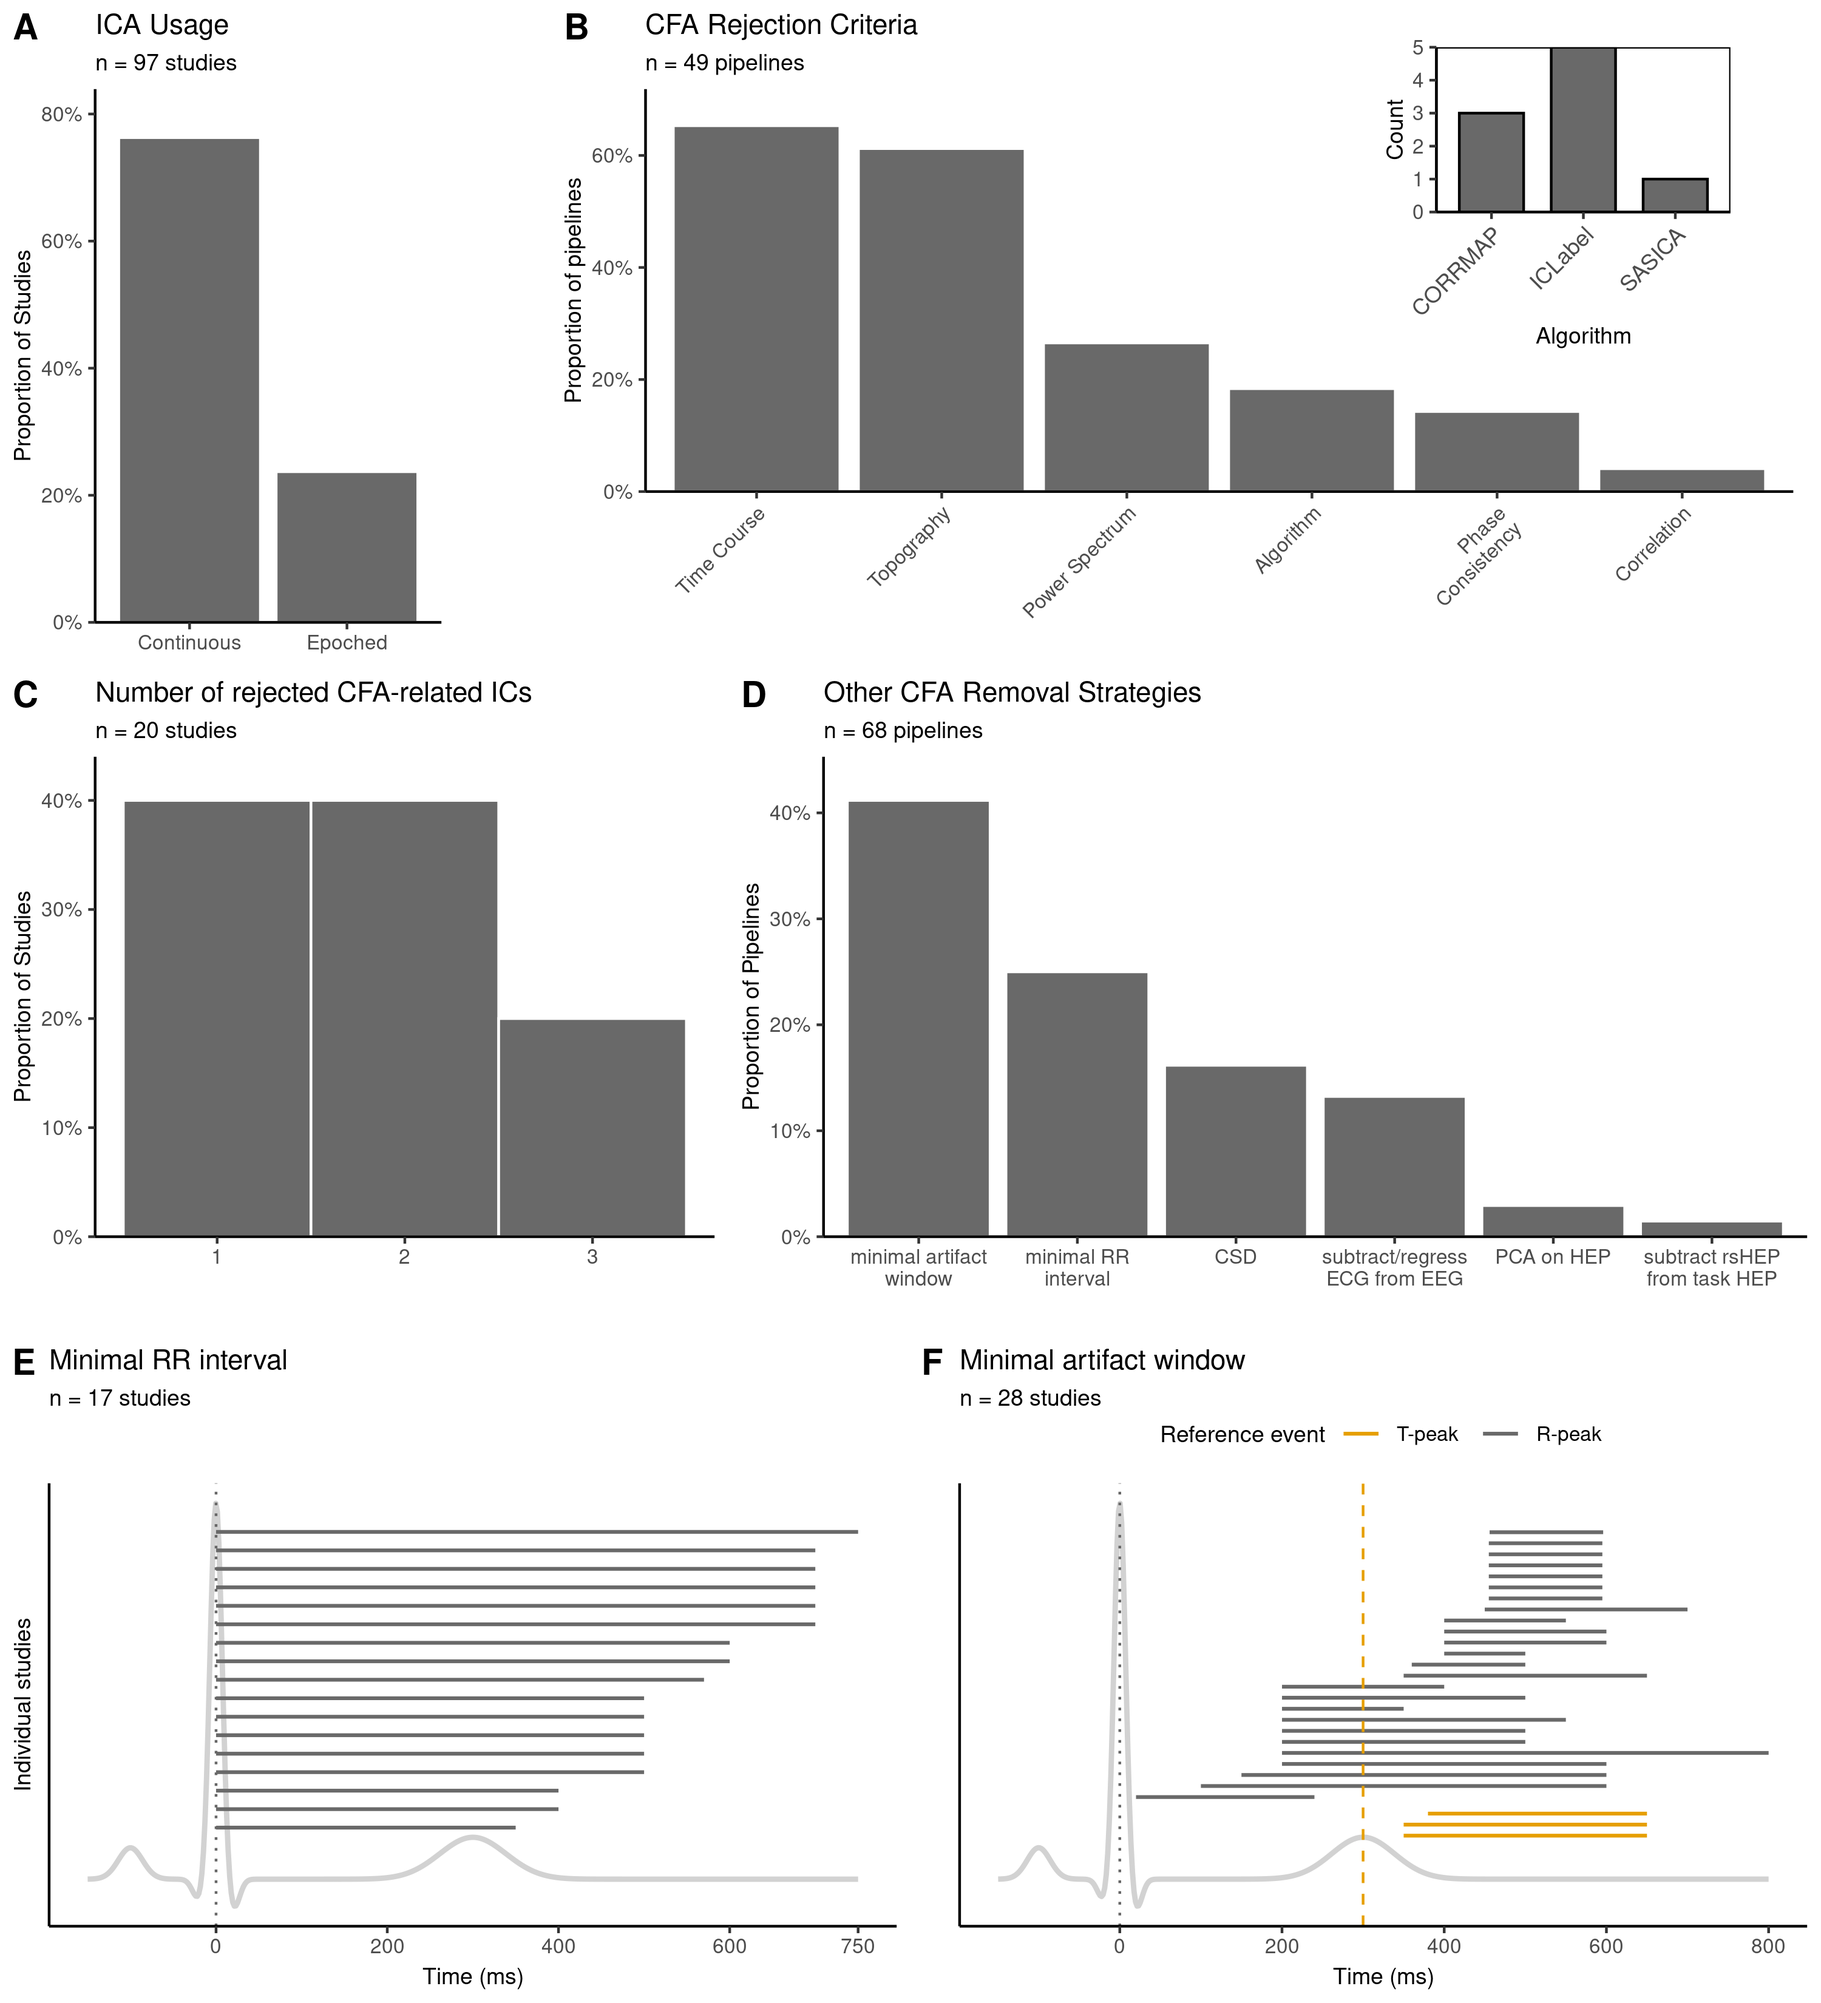
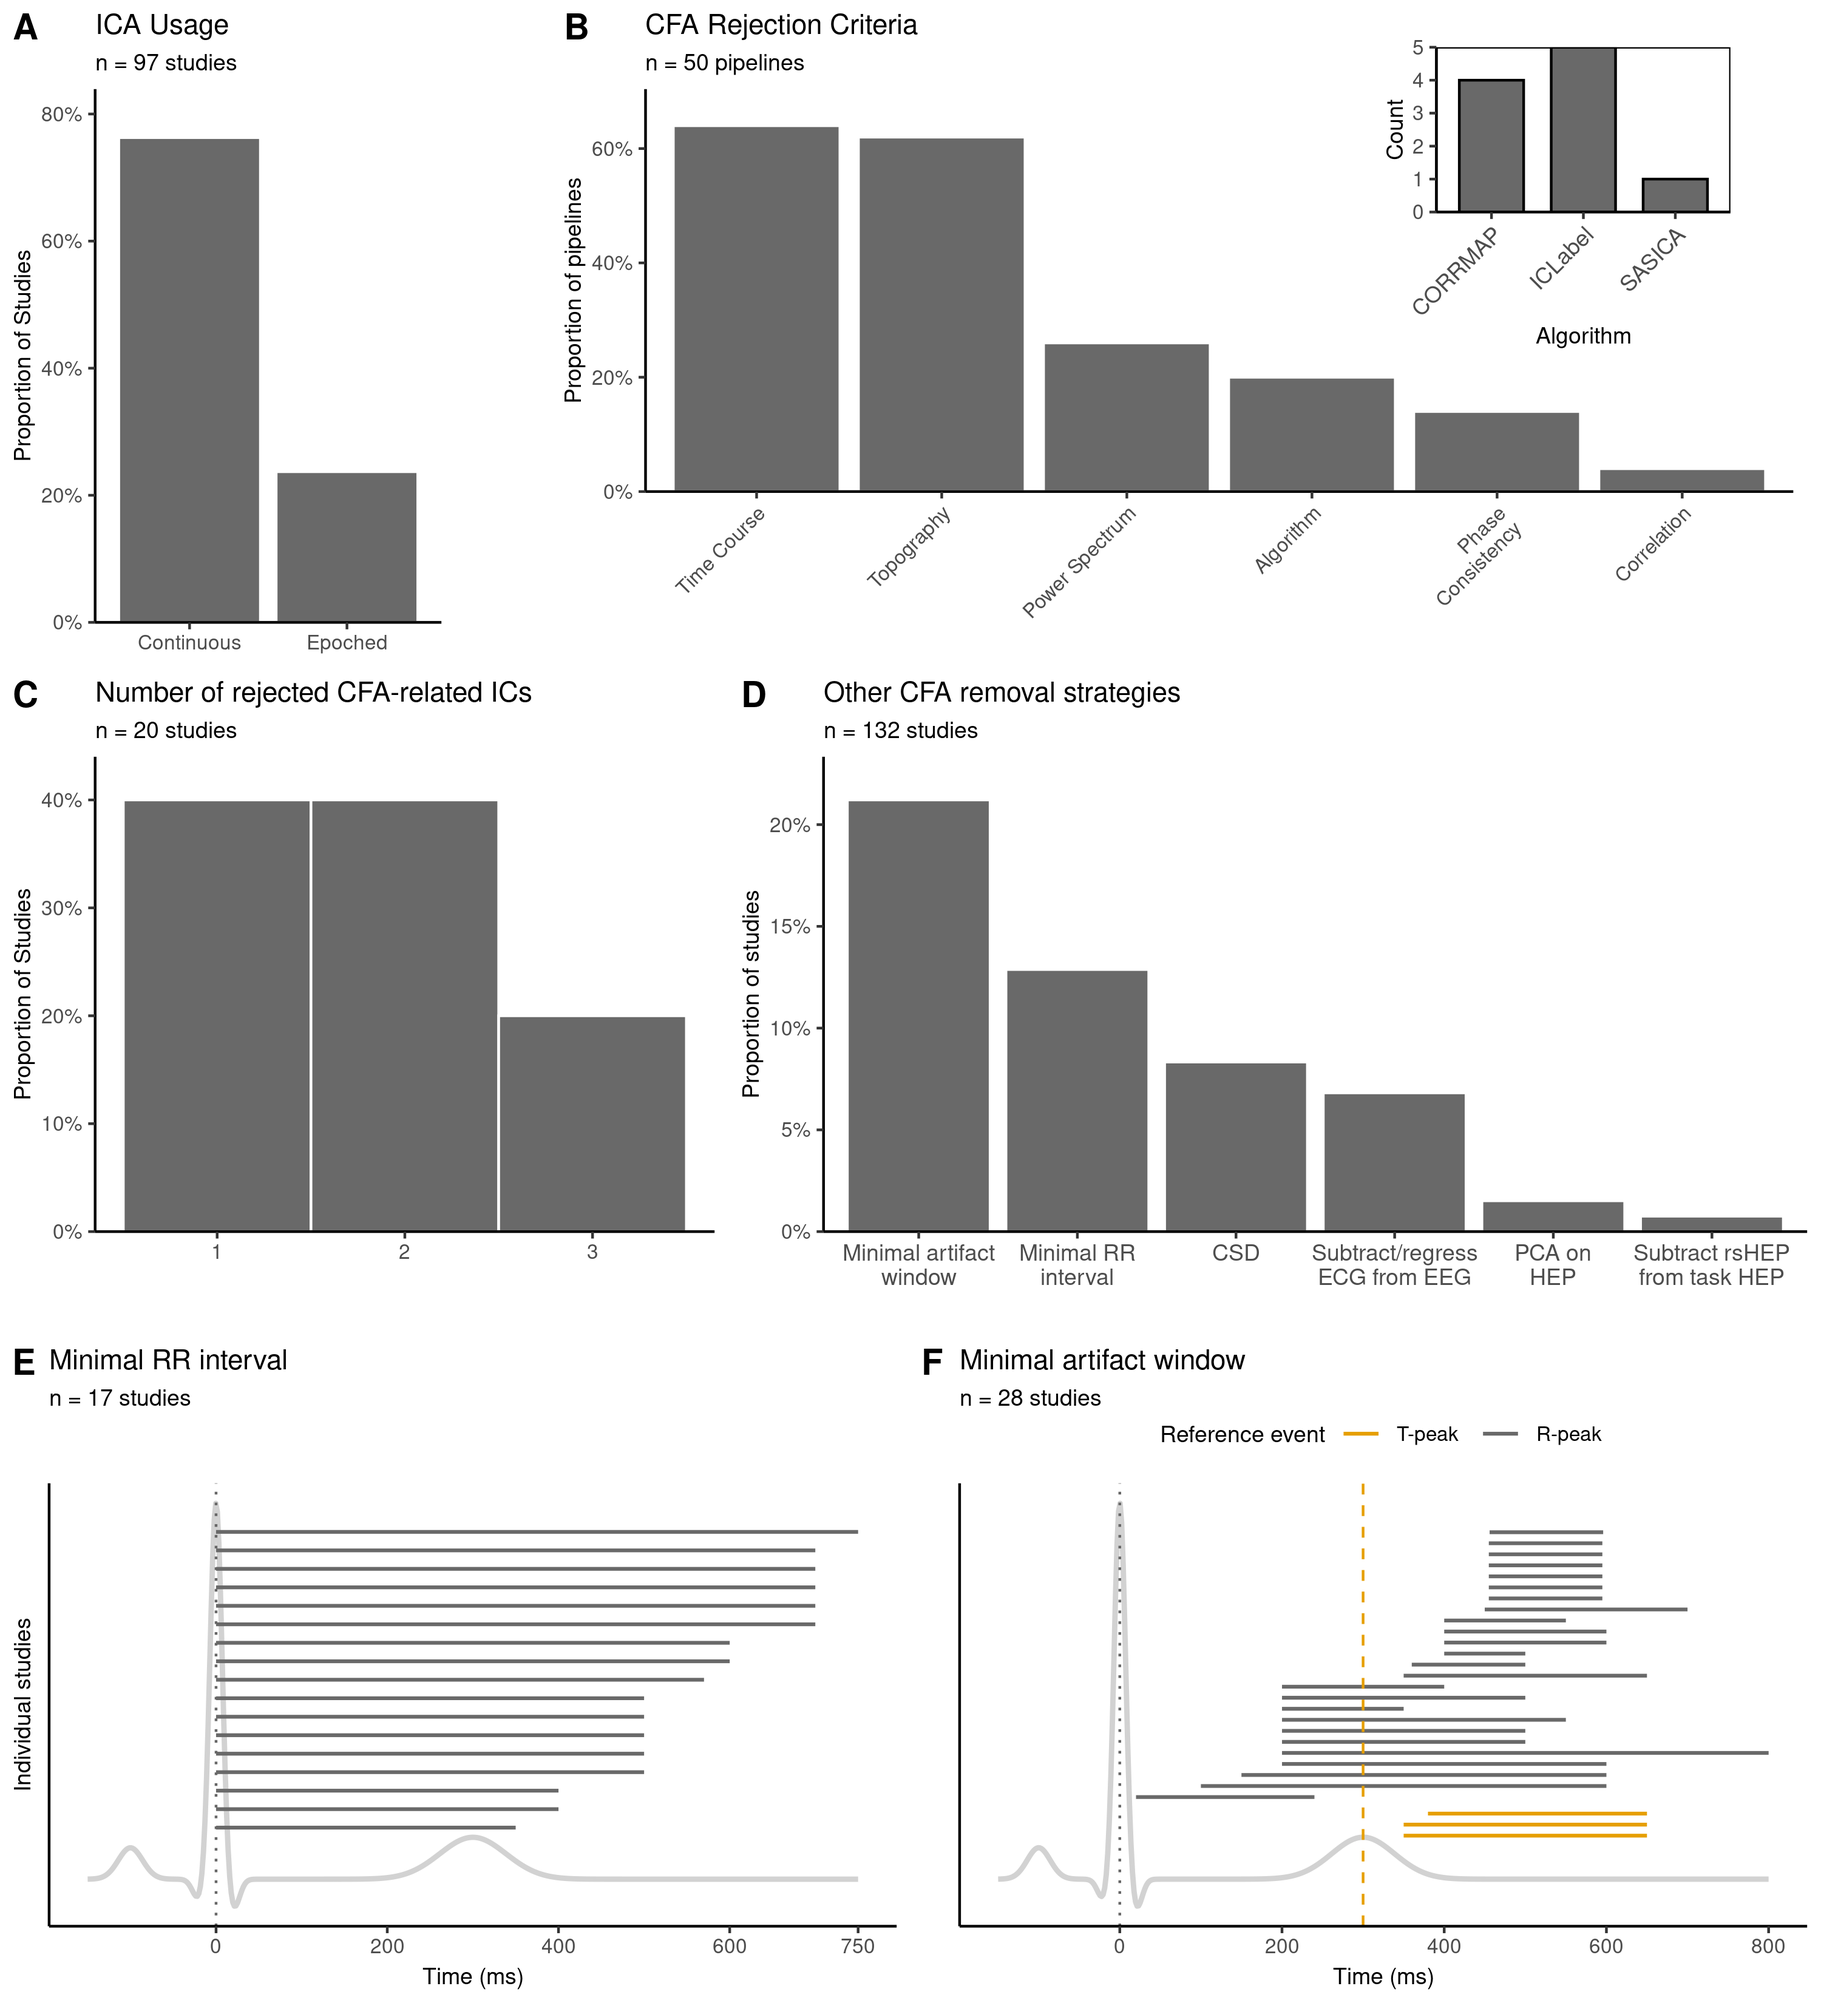
Figure 5, other CFA removal strategy

diff --git a/results/manuscript_statistics.html b/results/manuscript_statistics.html
@@ -265,19 +265,31 @@ time windows, or statistical approaches).</li>
 </div>
 <div id="dealing-with-cardiac-artifacts" class="section level2">
 <h2>3.5. Dealing with cardiac artifacts</h2>
-<p>Studies using any strategy for dealing with CFA:
-<strong>TODO</strong></p>
-<p>ICA used to remove CFA: <strong>TODO</strong></p>
+<p>Studies using any strategy for dealing with CFA: <strong>92%</strong>
+(<strong>121</strong> / <strong>132</strong>) studies</p>
+<p>ICA used to remove CFA: <strong>52%</strong> (<strong>69</strong> /
+<strong>132</strong>) studies</p>
 <div id="ica-applied-to-what-data" class="section level3">
 <h3>ICA applied to what data?</h3>
 <ul>
-<li>Continuous: <strong>76%</strong> (74/97) studies</li>
-<li>Epoched: <strong>24%</strong> (23/97) studies</li>
+<li>Continuous: <strong>76%</strong> (<strong>74</strong> /
+<strong>97</strong>) studies</li>
+<li>Epoched: <strong>24%</strong> (<strong>23</strong> /
+<strong>97</strong>) studies</li>
 </ul>
 </div>
 <div id="cfa-rejection-approach" class="section level3">
 <h3>CFA rejection approach</h3>
-<p>TODO</p>
+<ul>
+<li>Manual: <strong>54%</strong> (<strong>37</strong> /
+<strong>69</strong> studies)</li>
+<li>Automatic: <strong>19%</strong> (<strong>13</strong> /
+<strong>69</strong> studies)</li>
+<li>unknown: <strong>14%</strong> (<strong>10</strong> /
+<strong>69</strong> studies)</li>
+<li>Semi-automatic: <strong>13%</strong> (<strong>9</strong> /
+<strong>69</strong> studies)</li>
+</ul>
 </div>
 <div id="cfa-rejection-criteria" class="section level3">
 <h3>CFA rejection criteria</h3>
@@ -290,39 +302,36 @@ time windows, or statistical approaches).</li>
 <strong>69</strong>) studies</li>
 <li>Range: <strong>1</strong> - <strong>3</strong>, median = 1.7</li>
 </ul>
-<p>ICA for CFA: <strong>69</strong>/<strong>132</strong></p>
 </div>
-<div id="cfa-identification-approaches" class="section level3">
-<h3>CFA Identification Approaches</h3>
+<div id="studies-with-any-cfa-approach" class="section level3">
+<h3>Studies With Any CFA Approach</h3>
 <ul>
-<li>Not reported: <strong>40.2%</strong> of studies using ICA
-(39/97)</li>
+<li>Studies with any CFA approach: <strong>79.5</strong>% (105/132)</li>
 </ul>
-<p>CFA approaches (pipelines): * Manual: <strong>63.8%</strong> (37/58)
-* Automatic: <strong>20.7%</strong> (12/58) * Semi-Automatic:
-<strong>15.5%</strong> (9/58)</p>
 </div>
 <div id="cfa-identification-criteria" class="section level3">
 <h3>CFA Identification Criteria</h3>
-<p>CFA criteria (pipelines): * Time Course: <strong>65.3%</strong>
-(32/49) * Topography: <strong>61.2%</strong> (30/49) * Power Spectrum:
-<strong>26.5%</strong> (13/49) * Correlation: <strong>4.1%</strong>
-(2/49) * Algorithm: <strong>18.4%</strong> (9/49) * Phase Consistency:
-<strong>14.3%</strong> (7/49)</p>
+<p>CFA criteria (pipelines): * Time Course: <strong>64%</strong> (32/50)
+* Topography: <strong>62%</strong> (31/50) * Power Spectrum:
+<strong>26%</strong> (13/50) * Correlation: <strong>4%</strong> (2/50) *
+Algorithm: <strong>20%</strong> (10/50) * Phase Consistency:
+<strong>14%</strong> (7/50)</p>
 </div>
 <div id="other-cfa-removal-strategies" class="section level3">
-<h3>Other CFA Removal Strategies</h3>
-<p>Other CFA strategies: * CSD: 11 studies (<strong>8.3%</strong>)
-(studies) * Subtract/regress ECG from EEG: 8 studies
-(<strong>6.1%</strong>) (studies) * Pca On Hep: 2 studies
-(<strong>1.5%</strong>) (studies) * Subtract/Regress Ecg From Eeg, Limit
-Analysis To Time Of Minimal Artifact: 1 studies (<strong>0.8%</strong>)
-(studies)</p>
-</div>
-<div id="studies-without-any-cfa-approach" class="section level3">
-<h3>Studies Without Any CFA Approach</h3>
+<h3>Other CFA removal strategies</h3>
 <ul>
-<li>Studies with any CFA approach: <strong>79.5</strong>% (105/132)</li>
+<li>Minimal artifact window: <strong>21%</strong> (<strong>28</strong> /
+<strong>132</strong> studies)</li>
+<li>Minimal RR interval: <strong>13%</strong> (<strong>17</strong> /
+<strong>132</strong> studies)</li>
+<li>CSD: <strong>8.3%</strong> (<strong>11</strong> /
+<strong>132</strong> studies)</li>
+<li>Subtract/regress ECG from EEG: <strong>6.8%</strong>
+(<strong>9</strong> / <strong>132</strong> studies)</li>
+<li>PCA on HEP: <strong>1.5%</strong> (<strong>2</strong> /
+<strong>132</strong> studies)</li>
+<li>Subtract rsHEP from task HEP: <strong>0.8%</strong>
+(<strong>1</strong> / <strong>132</strong> studies)</li>
 </ul>
 </div>
 <div id="minimal-cfa-window" class="section level3">
